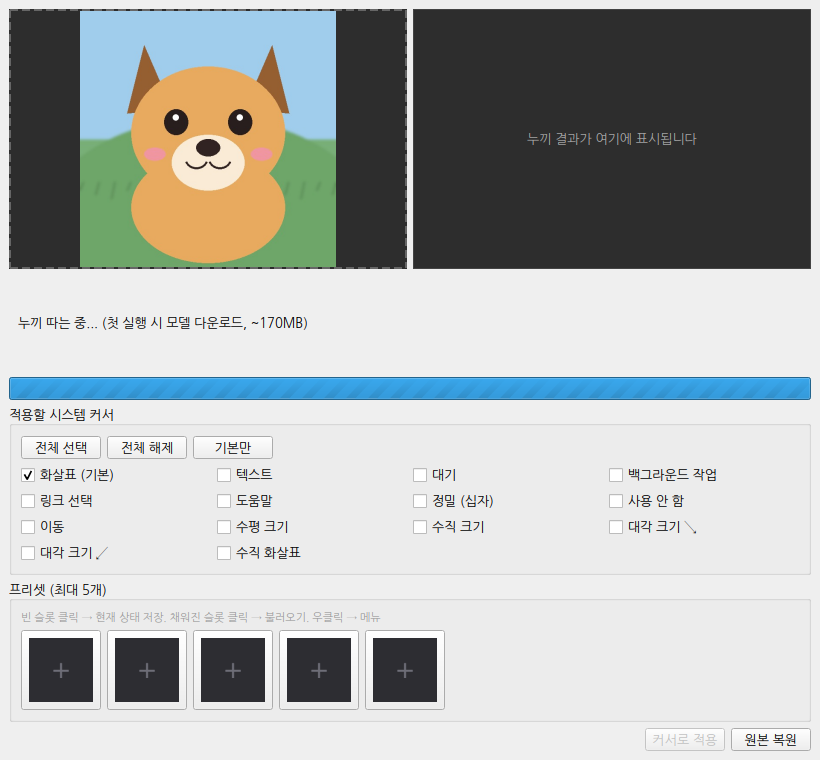
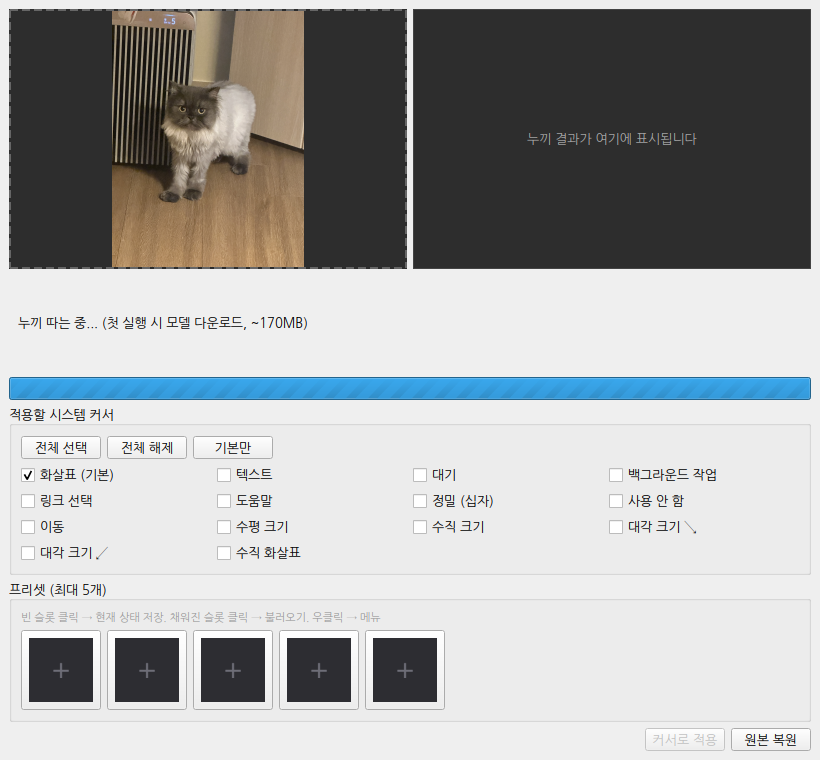
docs: replace README screenshots with real cat photo
Claude-Session: https://claude.ai/code/session_01HeSt93HXcchtaT86Niov4G

Changed region(s): [[0.0915, 0.0, 0.4268, 0.3632]]

diff --git a/README.md b/README.md
@@ -53,7 +53,7 @@
 
 <img src="docs/images/04-applied.png" alt="적용 완료 및 프리셋 저장" width="600">
 
-> 스크린샷의 반려동물은 예시용 일러스트입니다.
+> 스크린샷의 누끼 결과는 앱과 같은 `rembg` (`isnet-general-use`) 모델로 실제 처리한 결과입니다.
 
 ## 빠른 실행 (배포본)
 
